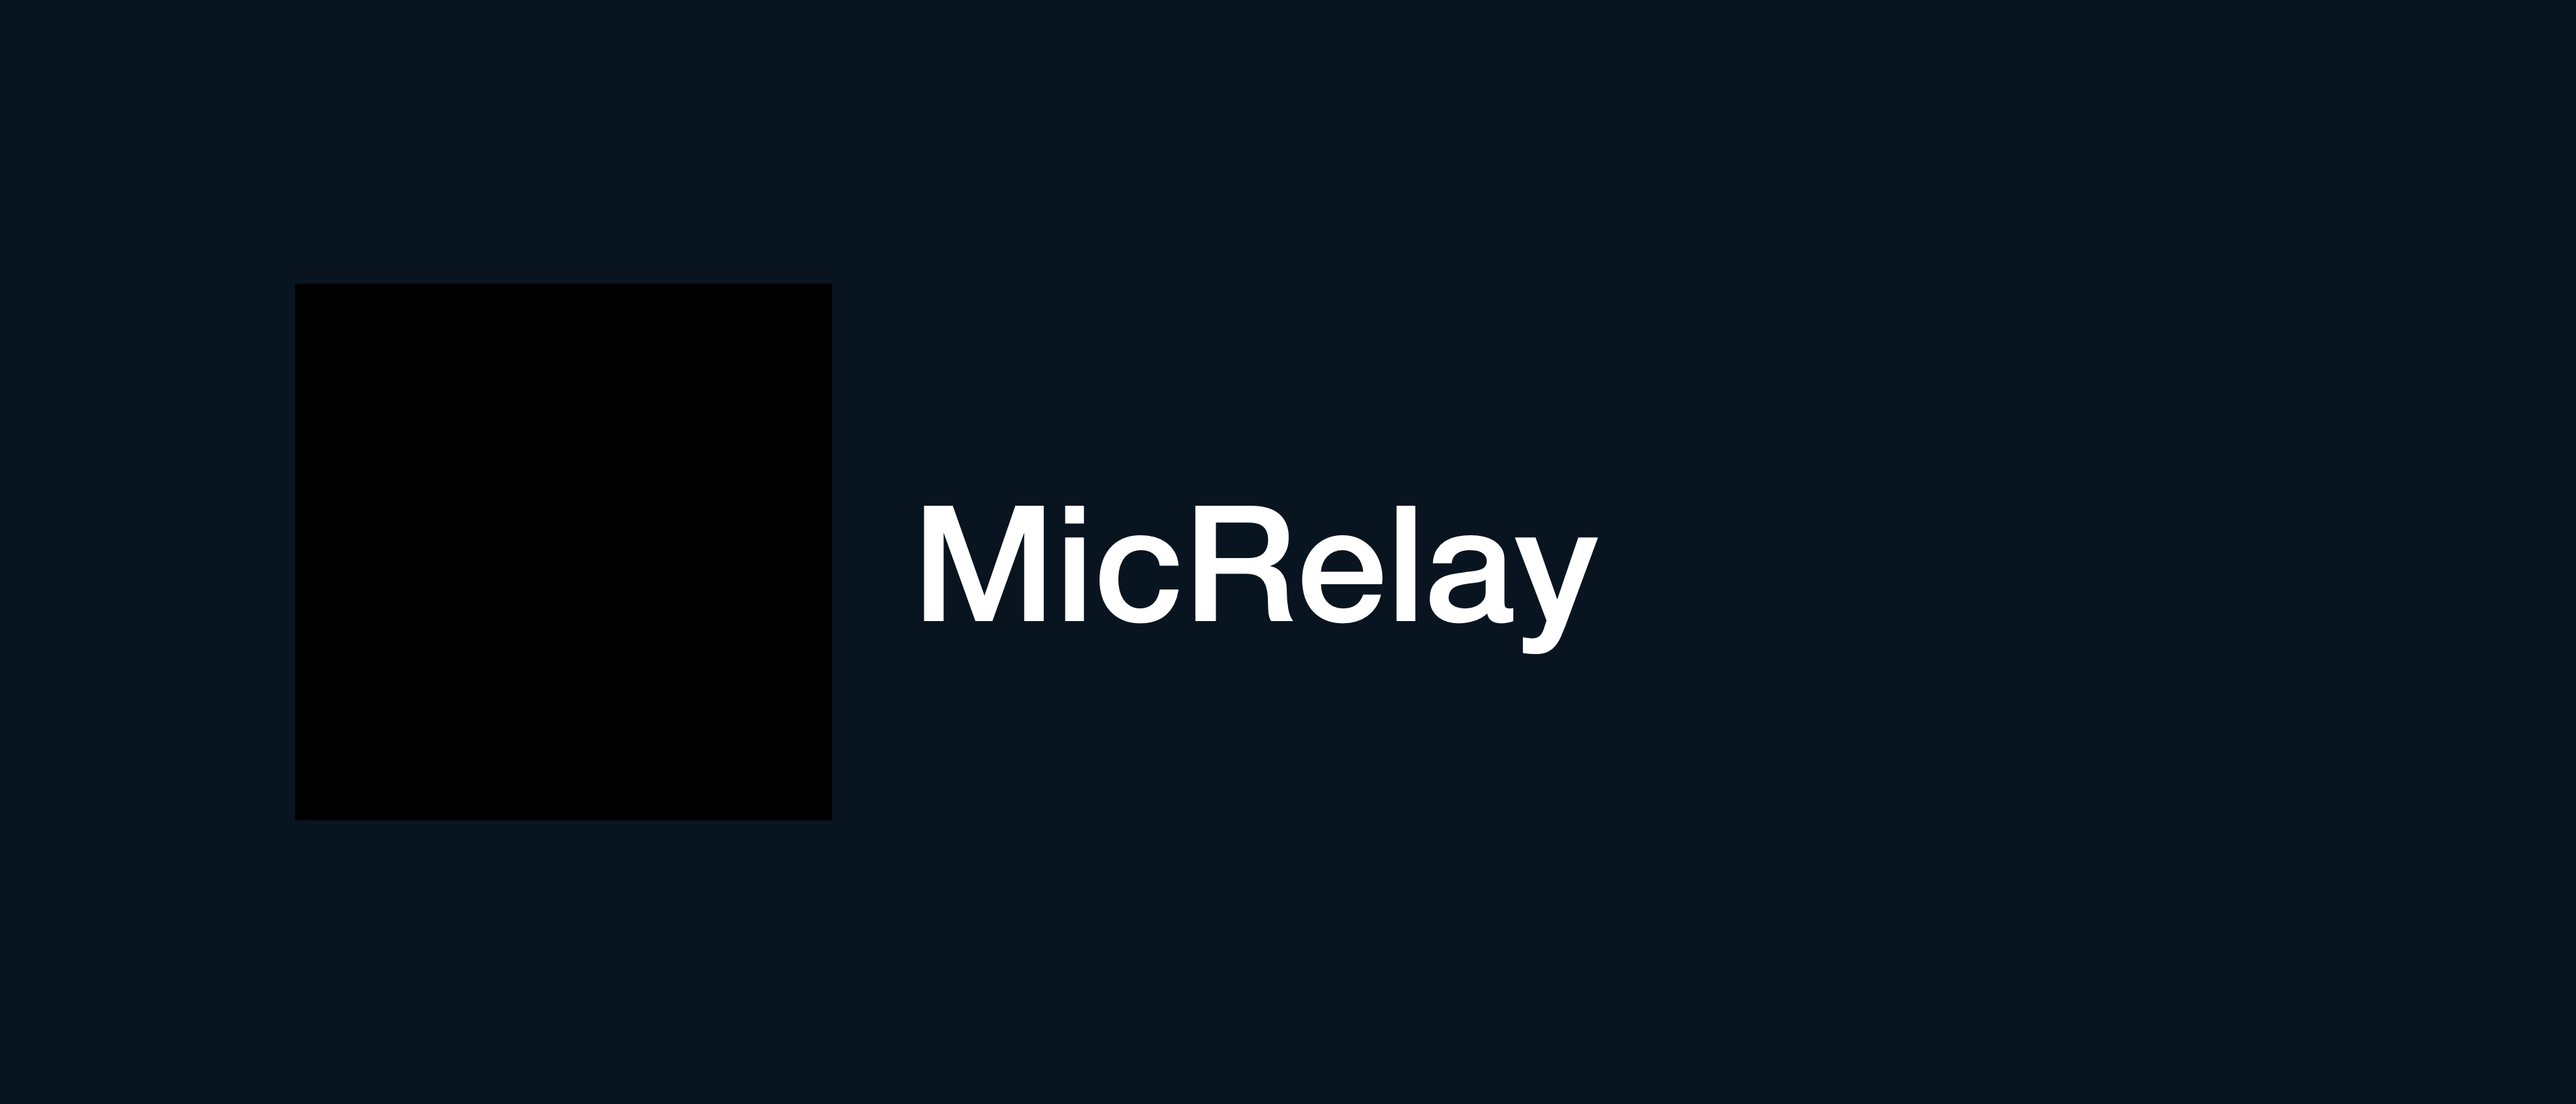
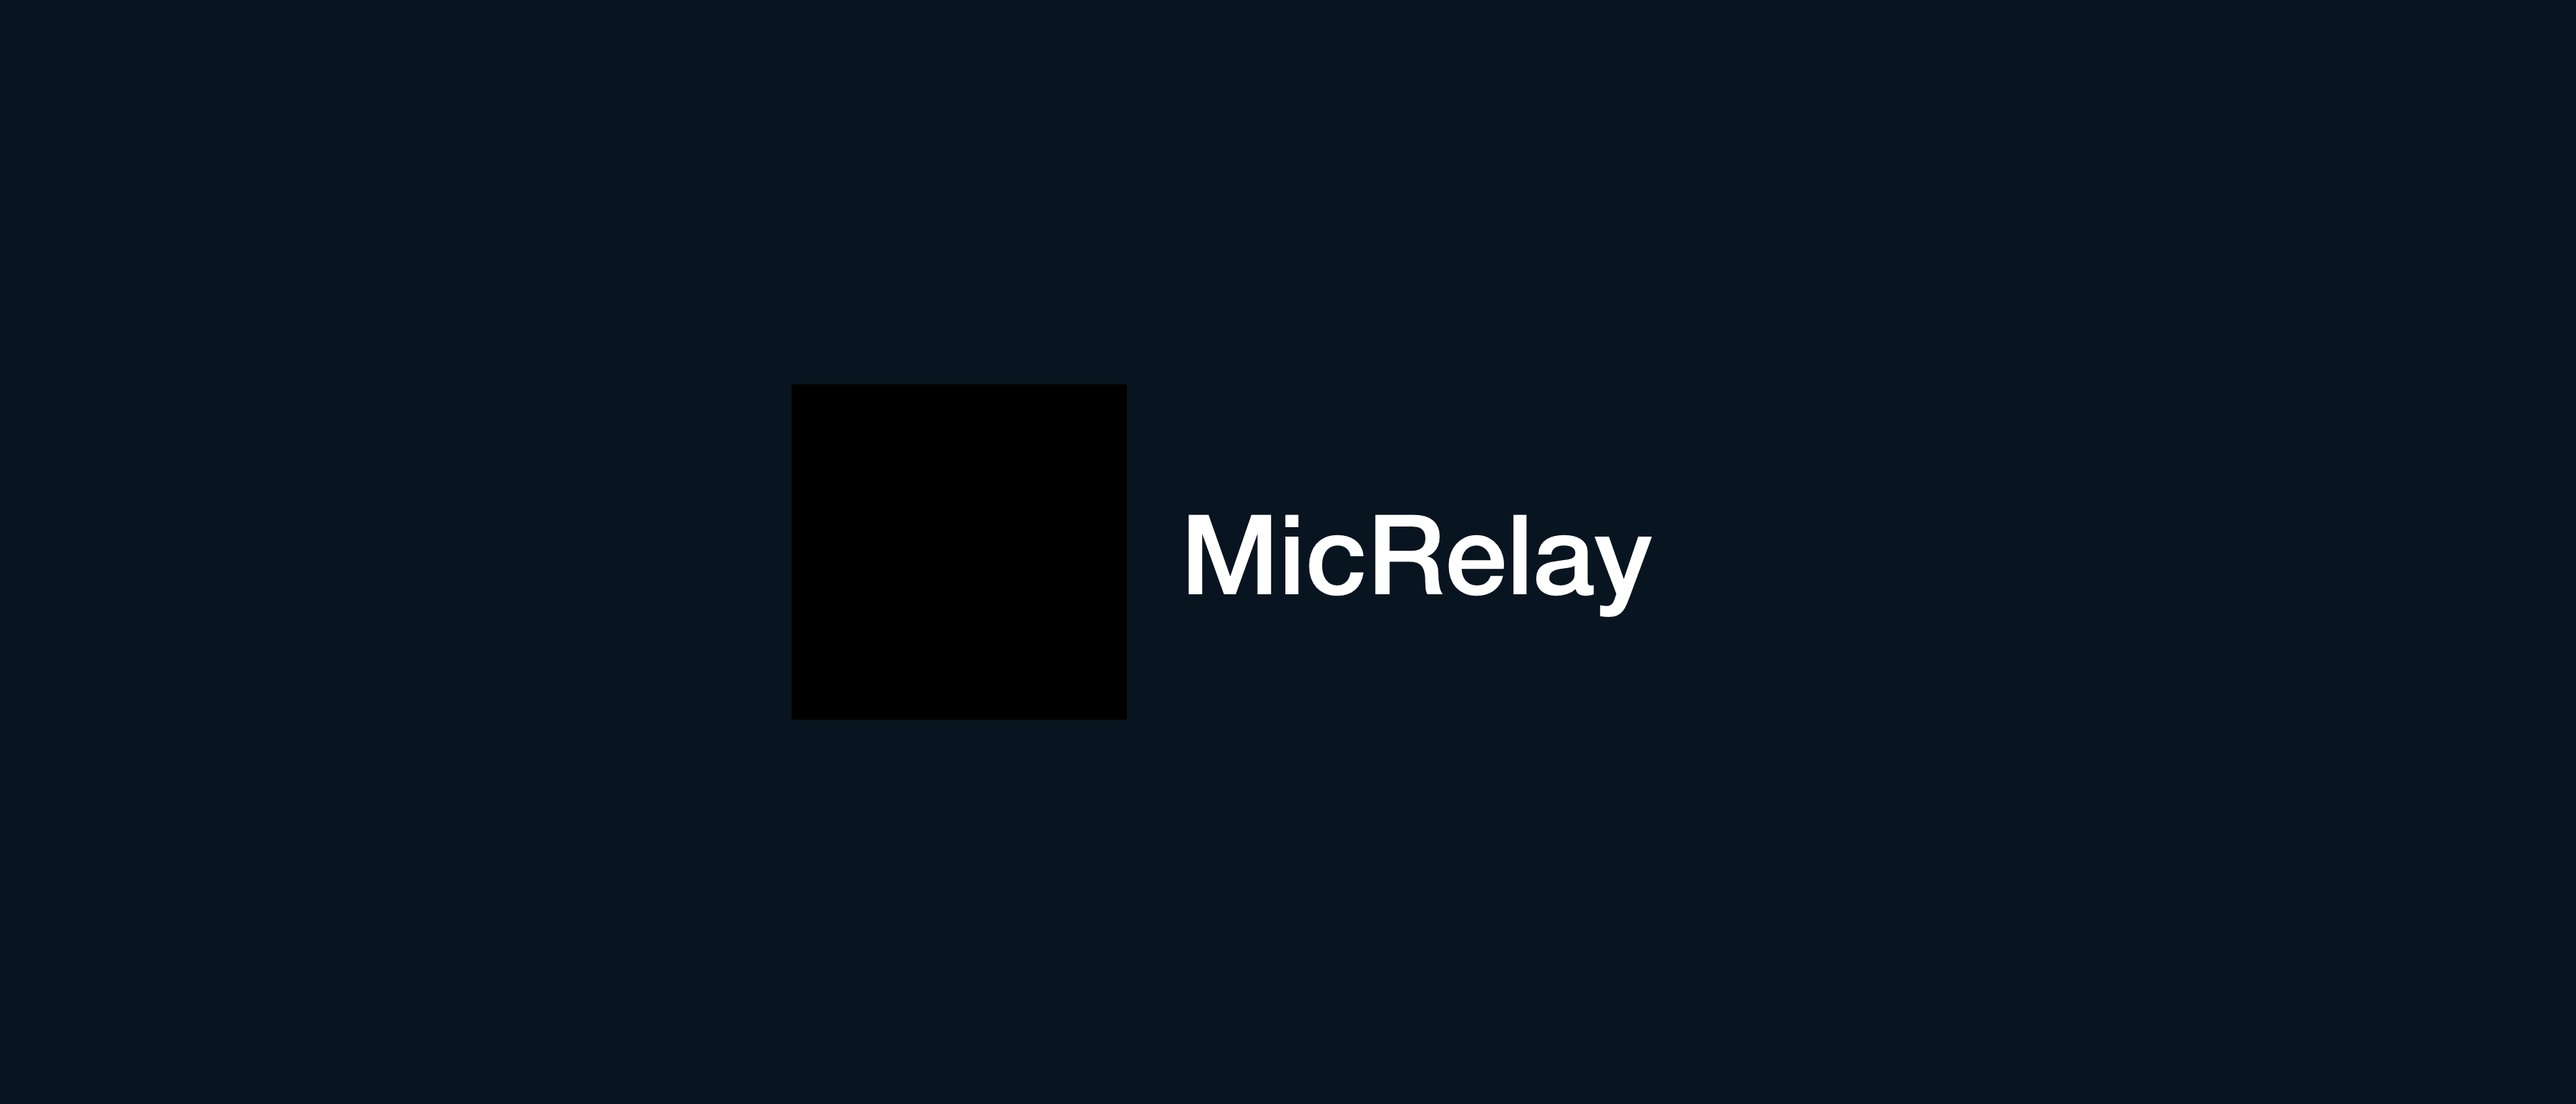
Prepare store artwork and external TestFlight main distribution

Changed region(s): [[0.0938, 0.2479, 0.6562, 0.7436]]

diff --git a/scripts/generate-store-assets.swift b/scripts/generate-store-assets.swift
@@ -49,9 +49,16 @@ for (name, path) in [("01-outer", "artifacts/duo-native-closed-final.png"), ("02
 let header = context(3840, 1646)
 header.setFillColor(CGColor(red: 0.035, green: 0.065, blue: 0.095, alpha: 1))
 header.fill(CGRect(x: 0, y: 0, width: 3840, height: 1646))
-header.draw(load("MicRelay/Assets.xcassets/AppIcon.appiconset/AppIcon.png"), in: CGRect(x: 440, y: 423, width: 800, height: 800))
-let attrs: [NSAttributedString.Key: Any] = [NSAttributedString.Key(kCTFontAttributeName as String): CTFontCreateWithName("HelveticaNeue-Medium" as CFString, 240, nil), NSAttributedString.Key(kCTForegroundColorAttributeName as String): CGColor(gray: 1, alpha: 1)]
+header.draw(load("MicRelay/Assets.xcassets/AppIcon.appiconset/AppIcon.png"), in: CGRect(x: 1180, y: 573, width: 500, height: 500))
+let attrs: [NSAttributedString.Key: Any] = [NSAttributedString.Key(kCTFontAttributeName as String): CTFontCreateWithName("HelveticaNeue-Medium" as CFString, 165, nil), NSAttributedString.Key(kCTForegroundColorAttributeName as String): CGColor(gray: 1, alpha: 1)]
 let title = CTLineCreateWithAttributedString(NSAttributedString(string: "MicRelay", attributes: attrs))
-header.textPosition = CGPoint(x: 1360, y: 720)
+header.textPosition = CGPoint(x: 1760, y: 760)
 CTLineDraw(title, header)
 try write(header.makeImage()!, "store/header/MicRelay-header.png")
+let search = context(3840, 2560)
+search.setFillColor(CGColor(red: 0.035, green: 0.065, blue: 0.095, alpha: 1))
+search.fill(CGRect(x: 0, y: 0, width: 3840, height: 2560))
+search.draw(load("MicRelay/Assets.xcassets/AppIcon.appiconset/AppIcon.png"), in: CGRect(x: 1180, y: 1030, width: 500, height: 500))
+search.textPosition = CGPoint(x: 1760, y: 1210)
+CTLineDraw(title, search)
+try write(search.makeImage()!, "store/header/MicRelay-search.png")

diff --git a/scripts/store_creative.rb b/scripts/store_creative.rb
@@ -1,0 +1,63 @@
+# SPDX-License-Identifier: MIT
+# Copyright (c) 2026 ryuya
+# Apple API: https://developer.apple.com/documentation/appstoreconnectapi/uploading-and-managing-image-assets
+KIND = ARGV.fetch(0, 'header')
+PLACEMENT_TYPE = {'header'=>'PRODUCT_PAGE_HEADER_ASSET', 'search'=>'APP_STORE_SEARCH_RESULTS_ASSET'}.fetch(KIND)
+require 'spaceship'
+require 'dotenv'
+require 'net/http'
+require 'json'
+ROOT = File.expand_path('..', __dir__)
+Dotenv.load(File.join(ROOT, '.env'))
+$stdout.sync = true
+TOKEN = Spaceship::ConnectAPI::Token.create(key_id: ENV.fetch('APP_STORE_CONNECT_API_KEY_ID'), issuer_id: ENV.fetch('APP_STORE_CONNECT_API_ISSUER_ID'), filepath: ENV.fetch('APP_STORE_CONNECT_API_KEY_PATH'))
+Spaceship::ConnectAPI.token = TOKEN
+
+def request(method, path, body = nil)
+  uri = URI('https://api.appstoreconnect.apple.com/v1/' + path)
+  req = Net::HTTP.const_get(method.capitalize).new(uri)
+  req['Authorization'] = 'Bearer ' + TOKEN.text
+  if body
+    req['Content-Type'] = 'application/json'
+    req.body = JSON.generate(body)
+  end
+  response = Net::HTTP.start(uri.hostname, uri.port, use_ssl: true) { |http| http.request(req) }
+  result = JSON.parse(response.body)
+  abort "Apple API #{response.code}: #{result['errors']}" unless response.code.to_i.between?(200, 299)
+  result
+end
+
+app = Spaceship::ConnectAPI::App.find('net.ryuya-dev.MicRelay')
+version = app.get_app_store_versions.find { |v| v.version_string == '1.0.0' && v.app_store_state == 'PREPARE_FOR_SUBMISSION' } or abort 'Editable draft missing'
+localization = version.get_app_store_version_localizations.find { |l| l.locale == 'ja' }
+library = request('get', "apps/#{app.id}/assetLibrary")['data']['id']
+reference = request('get', 'appAssetLibraryRefData')['data'][0]['attributes']
+policy = reference['features'].find { |f| f['featureId'] == 'APP_STORE_VERSIONS' }['placementPolicies'].find { |p| p['placementType'] == PLACEMENT_TYPE }
+group = policy['groupLimits'].find { |g| g['groupIds'].include?('DEFAULT_PROFILE') } or abort 'Header placement unsupported'
+abort 'Header placement limit changed' unless group['maxCount'] == 1
+path = File.join(ROOT, "store/header/MicRelay-#{KIND}.png")
+name = "MicRelay #{KIND} v1"
+images = request('get', "appAssetLibraries/#{library}/images?filter[category]=CREATIVE_ASSETS")['data']
+image = images.find { |i| i['attributes']['referenceName'] == name }
+unless image
+  image = request('post', 'appAssetLibraryImages', data: {type: 'appAssetLibraryImages', attributes: {fileName: File.basename(path), fileSize: File.size(path), category: 'CREATIVE_ASSETS', referenceName: name}, relationships: {assetLibrary: {data: {type: 'appAssetLibraries', id: library}}}})['data']
+  Spaceship::ConnectAPI::FileUploader.upload(image['attributes']['uploadOperations'], File.binread(path))
+  image = request('patch', "appAssetLibraryImages/#{image['id']}", data: {type: 'appAssetLibraryImages', id: image['id'], attributes: {uploaded: true}})['data']
+end
+30.times do
+  state = image['attributes']['state']
+  break if state == 'PREPARE_FOR_SUBMISSION'
+  abort "Header failed: #{image['attributes']['stateDetails']}" if state == 'FAILED'
+  sleep 2
+  image = request('get', "appAssetLibraryImages/#{image['id']}")['data']
+end
+abort 'Header is still processing; rerun to finish placement' unless image['attributes']['state'] == 'PREPARE_FOR_SUBMISSION'
+spec = reference['imageSpecs'].find { |s| s['specId'] == image['attributes']['specId'] }
+abort 'Unexpected header specification' unless spec && spec['compatiblePlacementTypes'].include?(PLACEMENT_TYPE)
+placements = request('get', "appStoreVersionLocalizations/#{localization.id}/placements?filter[placementType]=#{PLACEMENT_TYPE}")['data']
+placement = placements.find { |p| p.dig('relationships','image','data','id') == image['id'] }
+if !placement && !placements.empty?
+  abort 'A different header is already placed; inspect before replacing'
+end
+placement ||= request('post', 'appAssetLibraryPlacements', data: {type:'appAssetLibraryPlacements', attributes: {placementType:PLACEMENT_TYPE, placementGroup:'DEFAULT_PROFILE'}, relationships: {image: {data: {type:'appAssetLibraryImages', id:image['id']}}, appStoreVersionLocalization: {data:{type:'appStoreVersionLocalizations', id:localization.id}}}})['data']
+puts JSON.pretty_generate({image_id:image['id'], image_state:image['attributes']['state'], placement_id:placement['id'], placement_state:placement['attributes']['state']})

diff --git a/docs/VALIDATION.md b/docs/VALIDATION.md
@@ -36,8 +36,18 @@
 
 標準SwiftUIのFormを採用。広いiPadとDuo横向きでは2列、狭い幅は1列。専用iPhone DuoシミュレーターをDevice HubでClosed / Open / Partially Open / Rotate / Closedと操作し、画面幅だけの模擬試験とは別に確認。ライト・ダークに追従。ストア用には実機iPhone・iPadとネイティブDuoのキャプチャを使用。
 
-FastlaneでApple Distribution署名のReleaseアーカイブ・IPAを作成。Releaseでは数値診断ファイルの保存や自動検証の起動処理を含めない。
+FastlaneでApple Distribution署名のReleaseアーカイブ・IPAを作成。最終ゲイン初期値200%と旧設定の維持は `artifacts/iPad-Gain200.xcresult` の21ユニットテストが成功。
+
+Releaseでは数値診断ファイルの保存や自動検証の起動処理を含めない。
 
 ## 残る確認
 
 Bluetooth機器、マイク付きイヤホン、別のUSBインターフェイス、実機Duo、通話・アラーム・各種ゲームでの割り込み、長時間・高負荷運転、音響ループバックによる総遅延は未確認。ファイルピッカーのクラウドストレージごとの保存・復元は未確認（JSON形式の入出力・検証はテスト済み）。
+
+## 配布状態
+
+公開MITソース：[ryuya0124/MicRelay](https://github.com/ryuya0124/MicRelay)。App Store ConnectはアプリID `6834848400`、Bundle ID `net.ryuya-dev.MicRelay`、1.0.0（ビルド2）。Apple Distribution署名を照合済み。初回アップロードの1.0（ビルド1）は外部グループに割り当てていない。
+
+外部TestFlight [main](https://testflight.apple.com/join/57HvuCWz) へビルド2を割り当て、Beta App Reviewに提出。確認時点は `WAITING_FOR_BETA_REVIEW` / `WAITING_FOR_REVIEW`。App Store本体は `PREPARE_FOR_SUBMISSION`、App Review提出なし、手動リリースのまま。
+
[1 lines of base64/hex data omitted]

diff --git a/README.md b/README.md
@@ -78,3 +78,5 @@ Debugビルドは停止時・バックグラウンド復帰時にアプリ内 `D
 - [高品質Bluetooth録音の遅延に関する注意](https://developer.apple.com/documentation/avfaudio/avaudiosession/categoryoptions-swift.struct/bluetoothhighqualityrecording)
 
 [サポート](docs/SUPPORT.md) / [プライバシーポリシー](docs/PRIVACY.md)
+
+外部TestFlight： [mainへ参加](https://testflight.apple.com/join/57HvuCWz)（初回Beta App Reviewの承認後にインストール可能）。
